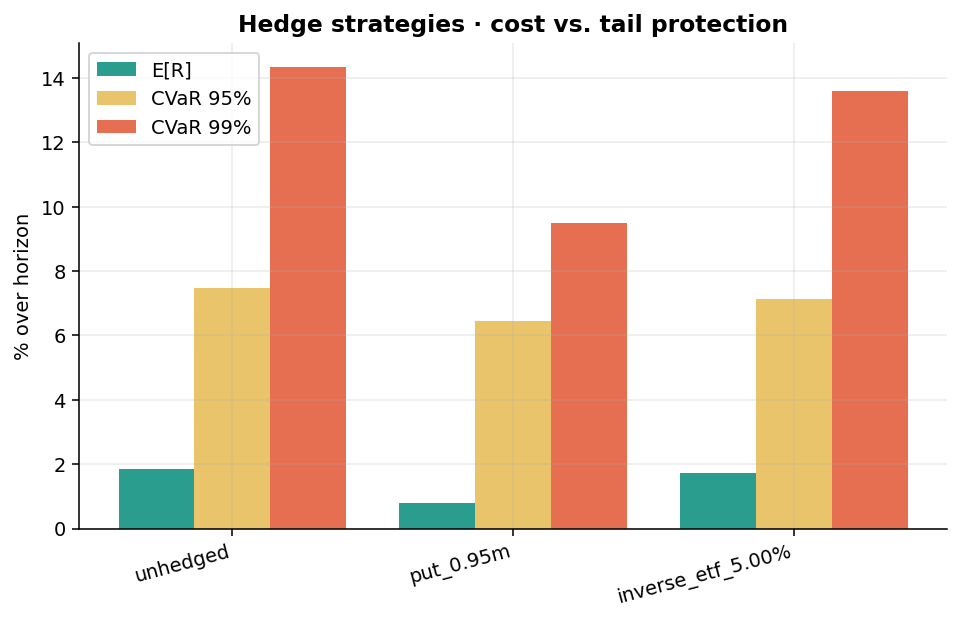
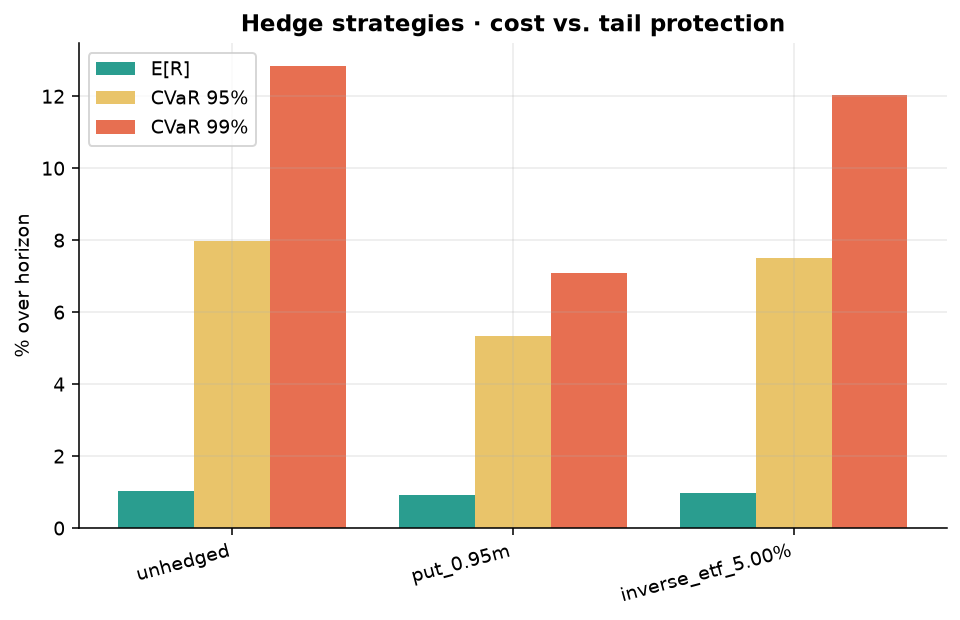
README: re-measured results, both backtests, model notes; regenerate figures
- Highlights re-measured with the fixed engine: simulated vs historical tails,
  VIX-priced hedges, full-engine 21-day walk-forward, and the 1-day stand-in
  backtest after its recursion fix (99% breaches cluster: Christoffersen
  rejects, which the old code had hidden).
- Engineering notes for each fix; stress/validate in the quickstart.
- Figure script uses the shared hedge builder; matplotlib added to dev extras
  (the script needed it but it wasn't declared). Figures regenerated.

diff --git a/scripts/generate_readme_figures.py b/scripts/generate_readme_figures.py
@@ -20,8 +20,8 @@ import pandas as pd
 
 from tailrisk.backtest import rolling_var_backtest
 from tailrisk.config import EngineConfig
-from tailrisk.data import load_prices, log_returns
-from tailrisk.hedging import InverseETF, PutOption, evaluate_hedges
+from tailrisk.data import latest_vix, load_prices, log_returns
+from tailrisk.hedging import build_hedges, evaluate_hedges
 from tailrisk.optimization import optimize_cvar
 from tailrisk.simulation import MonteCarloEngine, fit_models
 
@@ -128,24 +128,7 @@ def main() -> None:
     plt.close(fig)
 
     # ---- 4. Hedge comparison ----
-    ticker_idx = {t: i for i, t in enumerate(sim.tickers)}
-    instruments: list = []
-    for spec in cfg.hedging.instruments:
-        if spec.kind == "put" and spec.underlying in ticker_idx:
-            instruments.append(
-                PutOption(
-                    asset_index=ticker_idx[spec.underlying],
-                    moneyness=spec.moneyness or 0.95,
-                    premium_pct=spec.premium_pct or 0.012,
-                )
-            )
-        elif spec.kind == "inverse_etf" and spec.ticker in ticker_idx:
-            instruments.append(
-                InverseETF(
-                    asset_index=ticker_idx[spec.ticker],
-                    allocation=spec.allocation or 0.05,
-                )
-            )
+    instruments = build_hedges(cfg.hedging.instruments, sim.tickers, implied_vol=latest_vix())
     rows = evaluate_hedges(sim.asset_returns, sim.weights, instruments)
     names = [r.name for r in rows]
     fig, ax = plt.subplots(figsize=(8, 4.5))

diff --git a/README.md b/README.md
@@ -34,9 +34,11 @@ engine is a deliberate, layered answer to those failure modes:
 ## Highlights
 
 ### 1 · Fat-tailed Monte Carlo with regime switching
-20,000 paths over a 21-day horizon, fit on 18 years of SPY/QQQ/TLT/GLD/XLE
-daily data. Tail thickness (CVaR 99% ≈ 14%) is driven by the t-copula plus
-crisis-state vol scaling — a vanilla normal-copula model gives ~8%.
+20,000 paths over a 21-day horizon, fit on SPY/QQQ/TLT/GLD/XLE daily data since
+2007. The simulated 21-day distribution matches the historical one where it
+matters: VaR 95% 5.4% (history 5.0%), CVaR 99% 14.2% (history 16.1%), excess
+kurtosis ~7-11 (history 7.6). Without the crisis regime the deep tail is far too
+thin (CVaR 99% ~10%).
 
 <p align="center">
   <img src="docs/images/fan_chart.png" width="80%"/>
@@ -53,28 +55,40 @@ under-emphasizes.
 
 ### 3 · Hedge strategies are scored on cost vs. tail protection
 Every hedge variant is run through the same simulated paths so trade-offs are
-honest: protective puts roughly halve the *deep* tail at a real expected-return
-cost; inverse-ETF allocations move the median much less but leave 99% CVaR
-nearly untouched.
+honest. Puts are priced with Black-Scholes at the current VIX, so their cost
+moves with the market. At VIX 17.7%, a 1-month 5% out-of-the-money SPY put on
+the whole portfolio cut CVaR 99% from 12.5% to 7.0% for 0.11% of expected
+return; a 5% inverse-ETF sleeve barely touched it (11.7%).
 
 <p align="center">
   <img src="docs/images/hedge_comparison.png" width="80%"/>
 </p>
 
-### 4 · Walk-forward backtest with regulatory coverage tests
-Refits a portfolio-level GARCH(1,1)-t every 63 days on an expanding window,
-forecasts 1-day VaR analytically, and scores breaches against the
-**Kupiec POF** test (unconditional coverage) and **Christoffersen** test
-(independence). On 4,111 OOS days:
+### 4 · Walk-forward validation with regulatory coverage tests
+**The full engine at its own horizon** (`tailrisk validate`): at each of 177
+non-overlapping 21-day windows since 2012, every model is refit on data up to
+that date only, 2,000 paths are simulated, and the predicted VaR is compared
+with the realized portfolio return.
+
+|                | breaches | expected | Kupiec p | Christoffersen p |
+|----------------|----------|----------|----------|------------------|
+| 21-day VaR 95% | 5        | 8.9      | 0.15 ✓   | 0.59 ✓           |
+| 21-day VaR 99% | 0        | 1.8      | 0.06 ✓   | 1.00 ✓           |
+
+Predicted risk tracks realized risk (rank correlation of predicted CVaR 95% with
+realized |return|: +0.36). The engine leans conservative: 5 breaches where 8.9
+were expected.
+
+**A 1-day stand-in** (`tailrisk backtest`): one GARCH(1,1)-t on the portfolio
+series, refit every 63 days, 1-day VaR on 4,235 out-of-sample days:
 
 |                | breach rate | nominal | Kupiec p | Christoffersen p |
 |----------------|-------------|---------|----------|------------------|
-| 95% VaR        | 6.23%       | 5.00%   | 0.000    | **0.78** ✓        |
-| 99% VaR        | 1.43%       | 1.00%   | 0.008    | **0.28** ✓        |
+| 95% VaR        | 5.95%       | 5.00%   | 0.006 ✗  | 1.00 ✓           |
+| 99% VaR        | 1.44%       | 1.00%   | 0.007 ✗  | 0.013 ✗          |
 
-The model captures volatility *dynamics* well (Christoffersen passes — no breach
-clustering) but tails are slightly thinner than reality (Kupiec rejects). That
-is exactly the kind of diagnostic this layer is designed to produce.
+At one day the simple model is slightly too thin-tailed, and its 99% breaches
+cluster: bad days come in runs it doesn't anticipate.
 
 <p align="center">
   <img src="docs/images/backtest.png" width="90%"/>
@@ -84,9 +98,10 @@ is exactly the kind of diagnostic this layer is designed to produce.
 The dashboard accepts plain English and routes it through a small interpreter
 into the simulation engine:
 
-> *"What is my loss if 2008 repeats?"* → historical replay, **CVaR 95% = 23.5%**
-> *"What if tech crashes 20%?"*       → asset shock on QQQ, **CVaR 95% = 21.6%**
-> *"What if volatility doubles?"*     → vol multiplier 2×, **CVaR 95% = 35.0%**
+> *"What is my loss if 2008 repeats?"* → historical replay, **CVaR 95% = 23.0%**
+> *"What if volatility doubles?"*     → vol multiplier 2× (plus a drift and correlation shock), **CVaR 95% = 26.4%**
+
+The same scenarios run from the CLI with `tailrisk stress`.
 
 ---
 
@@ -107,7 +122,7 @@ src/tailrisk/
 └── cli.py         `tailrisk` CLI (typer)
 app/streamlit_app.py    Interactive dashboard
 configs/                Default + stress-scenario YAMLs
-tests/                  15-test pytest suite
+tests/                  31-test pytest suite
 ```
 
 The design intent is **composability over monolith**: each statistical concern
@@ -128,7 +143,9 @@ pip install -e ".[app,dev]"
 tailrisk simulate --config configs/default.yaml
 tailrisk optimize --config configs/default.yaml
 tailrisk hedge    --config configs/default.yaml
+tailrisk stress   --config configs/default.yaml
 tailrisk backtest --config configs/default.yaml --min-train 750
+tailrisk validate --config configs/default.yaml   # full-engine walk-forward, ~5 min
 
 # Dashboard
 streamlit run app/streamlit_app.py
@@ -152,13 +169,28 @@ A few choices worth flagging for anyone reading the code:
   smoothed regime probabilities; if both regimes have enough observations a
   separate copula is fit per regime. At simulation time, the path's current
   regime selects which copula draws the dependence shock.
+- **Marginals and copulas are fitted on GARCH-standardized residuals.** Raw
+  returns are fat-tailed *because* of volatility clustering, which GARCH already
+  models; fitting the marginals on them counted the tails twice (SPY's raw-return
+  Student-t has df ~2.4, i.e. infinite kurtosis, and simulated kurtosis swung
+  between ~20 and ~120 from seed to seed).
+- **Regimes start from today.** Each path's regime chain starts from today's
+  estimated regime probabilities, not the long-run mix (which put ~20% of paths
+  in crisis on day one). The crisis volatility boost is relative to today's
+  regime: on a crisis day GARCH vol is already high, and stacking the full
+  crisis/calm ratio on it gave crisis-start months a 95% VaR ~4.5x realized vol.
+- **Drift is the sample mean.** The GARCH-t fit's `mu` is a robust location
+  estimate near the median, ~2.5x the mean for skewed equity returns.
+- **Hedges are scored in simple returns.** A put's payoff is money; adding it to a
+  log portfolio return overstates crash losses past the strike.
 - **Mean is added once.** Student-t marginals carry their own location
   parameter, so the engine subtracts `loc` before applying GARCH-scaled shocks
   to avoid double-counting drift — a subtle bug that quadrupled expected
   returns in an earlier draft.
-- **Backtest uses portfolio-level GARCH** (not per-asset + copula at every
-  step). For *coverage* validation this is the standard academic protocol and
-  it makes the walk-forward tractable.
+- **Two backtests.** `validate` refits the full engine at every test date (slow,
+  ~5 minutes); `backtest` uses one portfolio-level GARCH for 1-day VaR (fast).
+  The 1-day backtest's recursion between refits is checked against `arch`'s own
+  filter in the tests.
 - **`statsmodels` quirk.** Markov regression returns a column-stochastic
   transition matrix — the engine transposes and renormalizes so each row sums
   to 1.
@@ -171,7 +203,7 @@ A few choices worth flagging for anyone reading the code:
 - [ ] Real LLM backend behind the NL interpreter (currently a typed-pattern stub)
 - [ ] On-disk cache for `yfinance` so runs are reproducible offline
 - [ ] Expected Shortfall backtest (Acerbi–Székely Z-tests)
-- [ ] Multi-day VaR backtest (currently 1-day only)
+- [x] Multi-day VaR backtest (`tailrisk validate`, 21 days)
 
 ---
 
